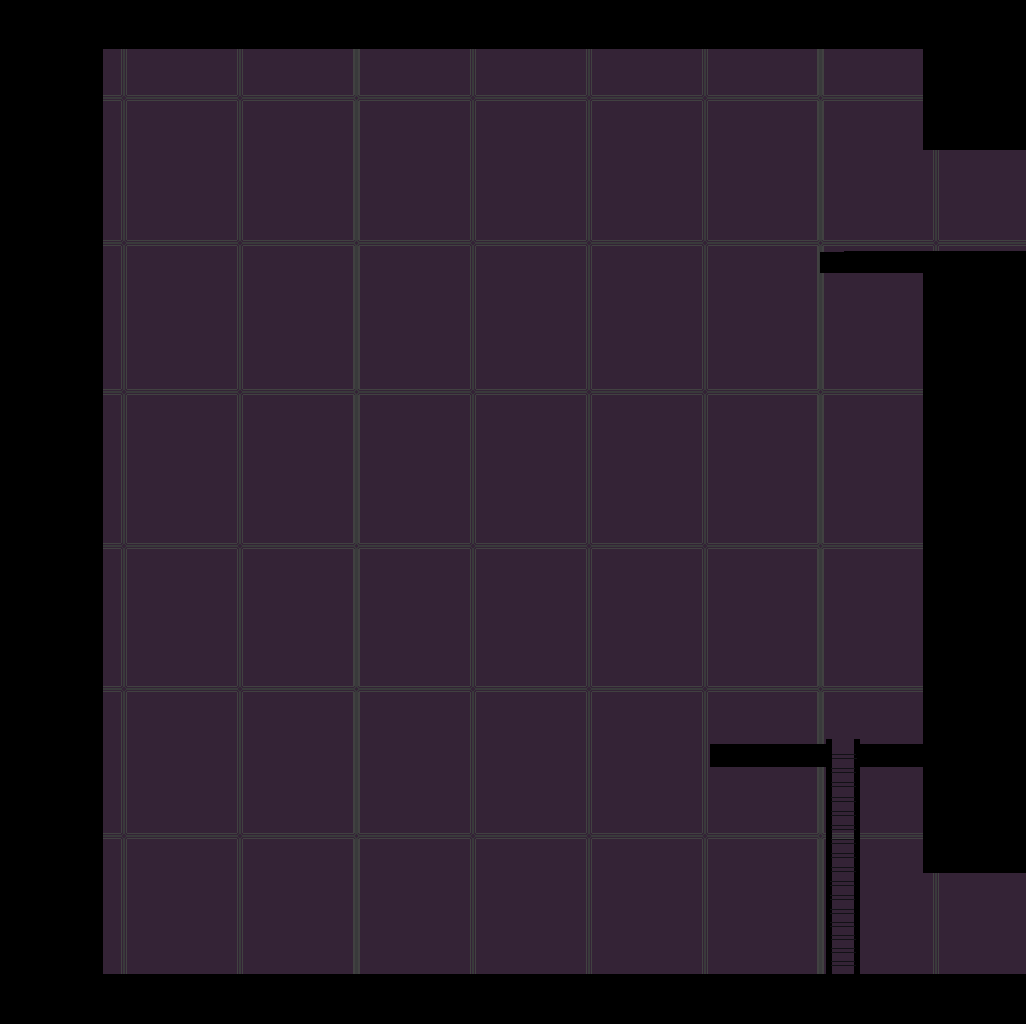
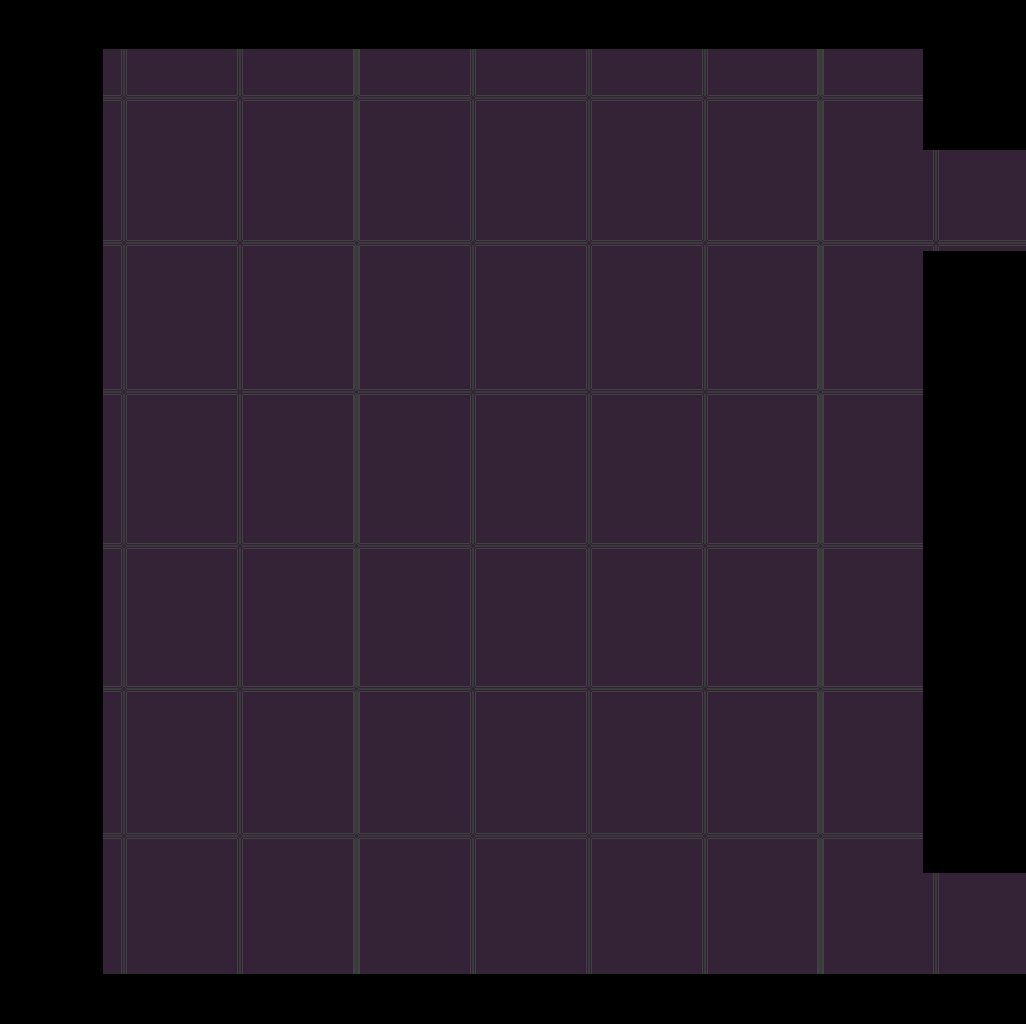
Updated menu cursor Added the backgrounds with no platforms drawn Updated the backgrounds for all levels except for the prison block level (the arrows are not present on Kristine's version)

Changed region(s): [[0.6862, 0.7188, 0.9045, 0.9688], [0.7797, 0.2188, 0.9045, 0.2812]]

diff --git a/Cold_Ship/Levels/Level_Common_Room.cs b/Cold_Ship/Levels/Level_Common_Room.cs
@@ -63,7 +63,6 @@ namespace Cold_Ship
         {
             //load the needed textures
             Texture2D playerTexture = Content.Load<Texture2D>("Character\\PlayerSpriteSheet");
-            Texture2D backgroundTexture = Content.Load<Texture2D>("Backgrounds\\messhall_draft");
             Texture2D backgroundFrontTexture = Content.Load<Texture2D>("Backgrounds\\messhall_frontLayer");
             Texture2D backgroundMiddleLayer = Content.Load<Texture2D>("Backgrounds\\messhall_middleLayer");
             Texture2D backgroundBackLayer = Content.Load<Texture2D>("Backgrounds\\messhall_backLayer");
@@ -71,7 +70,7 @@ namespace Cold_Ship
 
 
             //initialize the world size and the ground coordinate according to the world size
-            worldSize = new Vector2(backgroundTexture.Width, backgroundTexture.Height);
+            worldSize = new Vector2(backgroundFrontTexture.Width, backgroundFrontTexture.Height);
             ground = worldSize.Y - 50;
 
             //load font
@@ -79,7 +78,6 @@ namespace Cold_Ship
 
             //initialize the needed nodes and camera
             //load the various layers of background node
-            backgroundNode = new GenericSprite2D(backgroundTexture, new Vector2(0, 0), Rectangle.Empty);
             backgroundFront = new GenericSprite2D(backgroundFrontTexture, new Vector2(0, 0), Rectangle.Empty);
             backgroundMiddle = new GenericSprite2D(backgroundMiddleLayer, new Vector2(0, 0), Rectangle.Empty);
             backgroundBack = new GenericSprite2D(backgroundBackLayer, new Vector2(0, 0), Rectangle.Empty);

diff --git a/Cold_Ship/Cold_Ship.cs b/Cold_Ship/Cold_Ship.cs
@@ -129,9 +129,11 @@ namespace Cold_Ship
             // Create a new SpriteBatch, which can be used to draw textures.
             spriteBatch = new SpriteBatch(GraphicsDevice);
 
-            mainMenu = new MainMenu(this, Content.Load<Texture2D>("Backgrounds\\menuscreen"), Content.Load<Texture2D>("Objects\\lighter"), menuFont, DialogueBubble.soundBank.GetCue("sound-next-char"));
-            pauseMenu = new PauseMenu(this, Content.Load<Texture2D>("Backgrounds\\menuscreen"), Content.Load<Texture2D>("Objects\\lighter"), menuFont, DialogueBubble.soundBank.GetCue("sound-next-char"));
-            keyBindingMenu = new KeyBindingMenu(this, Content.Load<Texture2D>("Backgrounds\\menuscreen"), Content.Load<Texture2D>("Objects\\lighter"), menuFont, DialogueBubble.soundBank.GetCue("sound-next-char"));
+            Texture2D cursor = Content.Load<Texture2D>("Objects\\lighter_large");
+            Texture2D menuBackground = Content.Load<Texture2D>("Backgrounds\\menuscreen");
+            mainMenu = new MainMenu(this, menuBackground, cursor, menuFont, DialogueBubble.soundBank.GetCue("sound-next-char"));
+            pauseMenu = new PauseMenu(this, menuBackground, cursor, menuFont, DialogueBubble.soundBank.GetCue("sound-next-char"));
+            keyBindingMenu = new KeyBindingMenu(this, menuBackground, cursor, menuFont, DialogueBubble.soundBank.GetCue("sound-next-char"));
 
             prototypeLevel1 = new Level_Prison_Block(spriteBatch, screenSize);
             prototypeLevel2 = new Level_Generator(spriteBatch, screenSize);

diff --git a/Cold_Ship/Menus/Menu.cs b/Cold_Ship/Menus/Menu.cs
@@ -13,7 +13,7 @@ namespace Cold_Ship
     {
         private Texture2D backgroundTexture;
         private Texture2D cursorTexture;
-        private Vector2 cursorPositionDiff = new Vector2(40, 0);
+        private Vector2 cursorPositionDiff = new Vector2(20, 10);
 
         protected int selectedOption = 0;
         private int nOptions;
